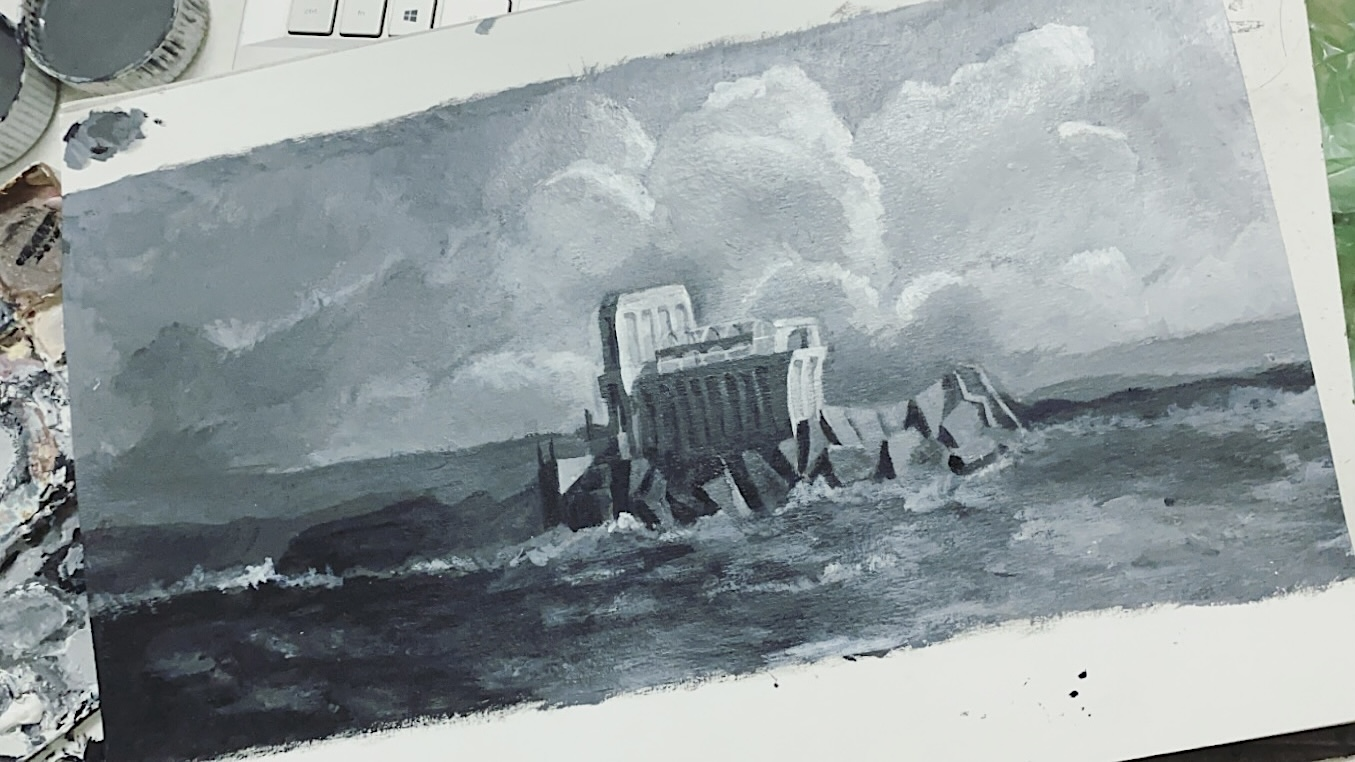
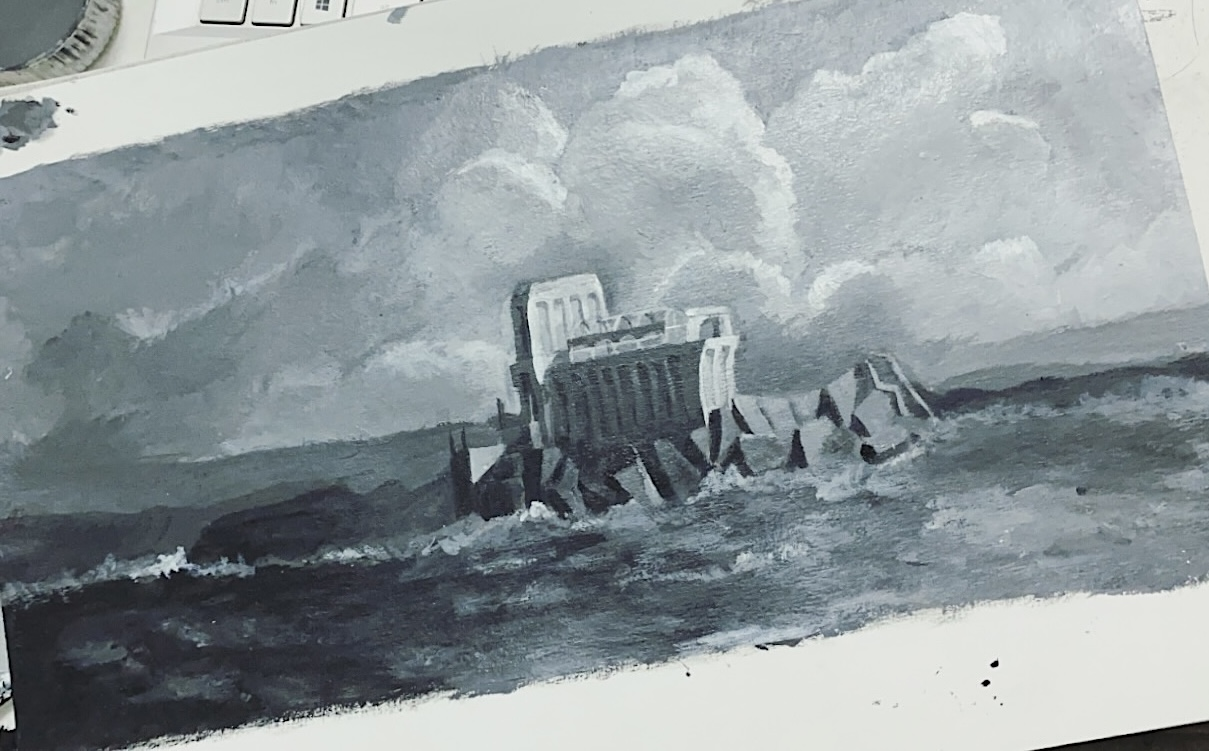
fix painting

diff --git a/app/play/page.tsx b/app/play/page.tsx
@@ -65,7 +65,7 @@ export default function Play(){
             <p className="text-2xl text-[var(--colour-bodytext)] mt-35 mb-8">Acrylic painting</p>
             <div className="grid grid-cols-1 md:grid-cols-[2fr_1fr] gap-9">
                 <div className="relative w-full h-[200px] md:h-[450px] rounded-xl overflow-hidden">
-                    <Image src="/play/acrylic.jpg" alt="acrylic painting" className="object-cover" fill />
+                    <Image src="/play/acrylic.jpg" alt="acrylic painting" className="object-cover md:scale-115" fill />
                     {/* <PlayImage srcPreview="/play/acrylic.PNG" src="/play/acrylic.PNG" alt="acrylic painting" className="object-cover"/> */}
                 </div>
                 <div className="flex items-end">
